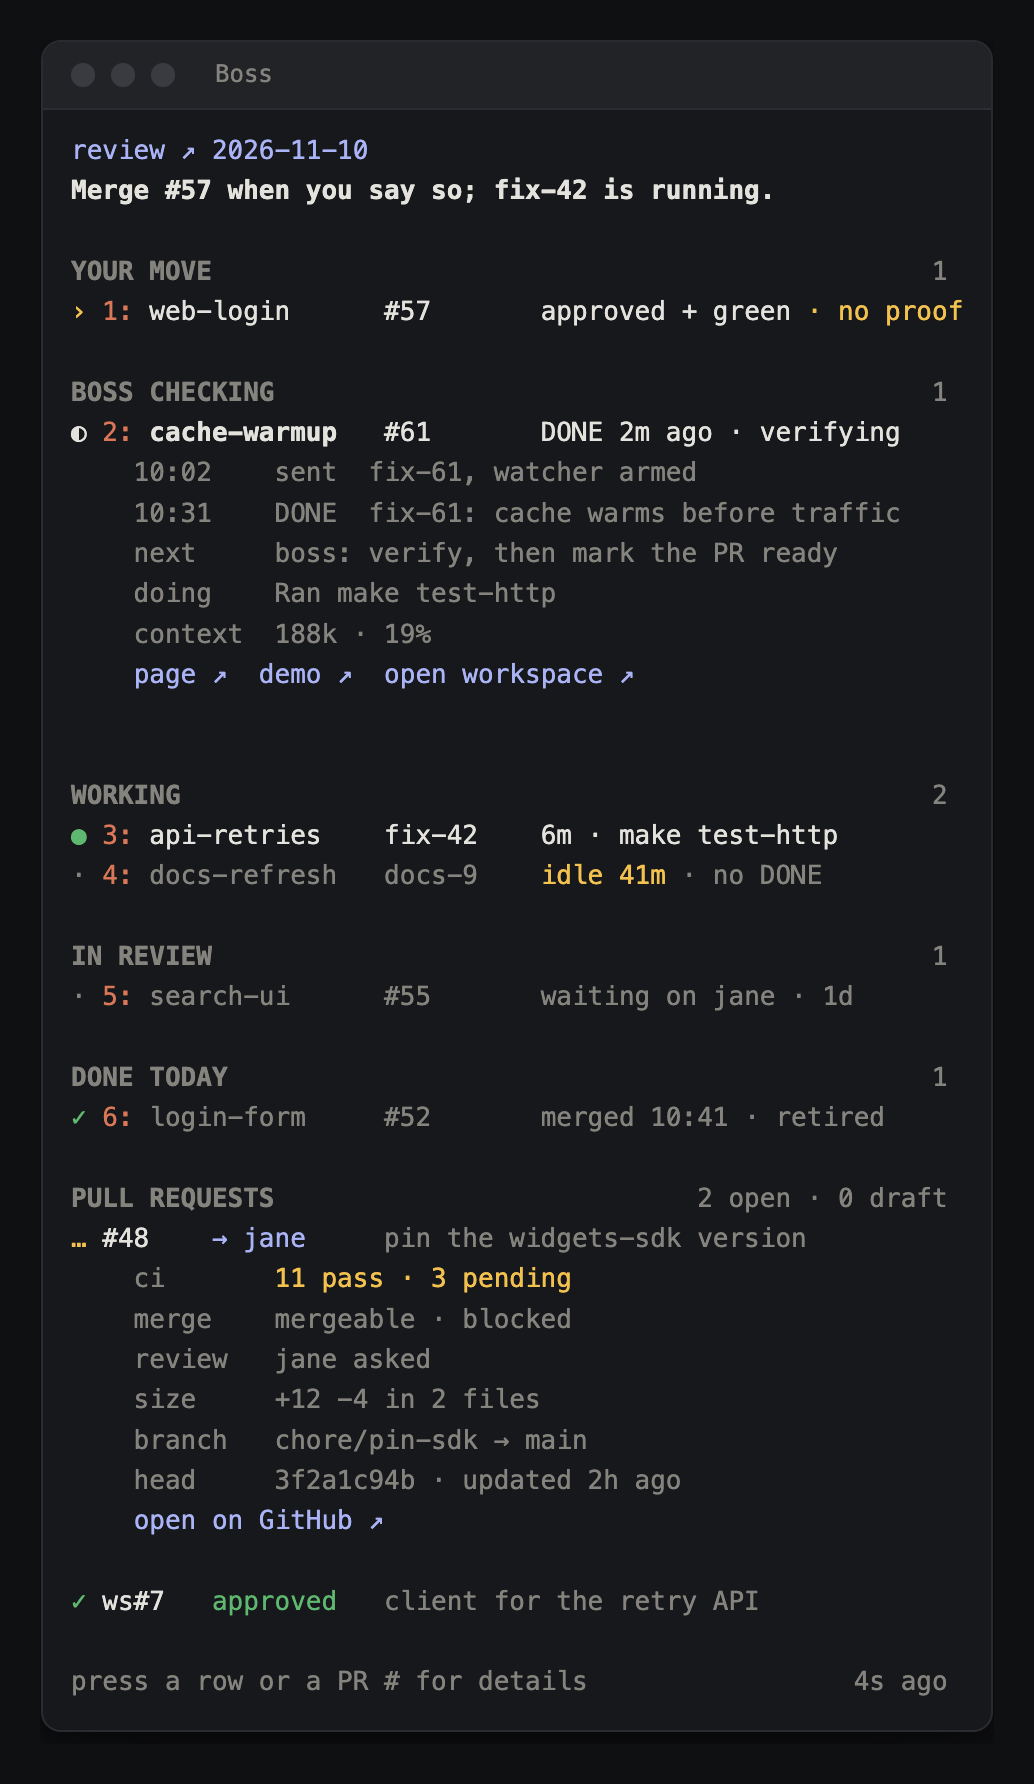
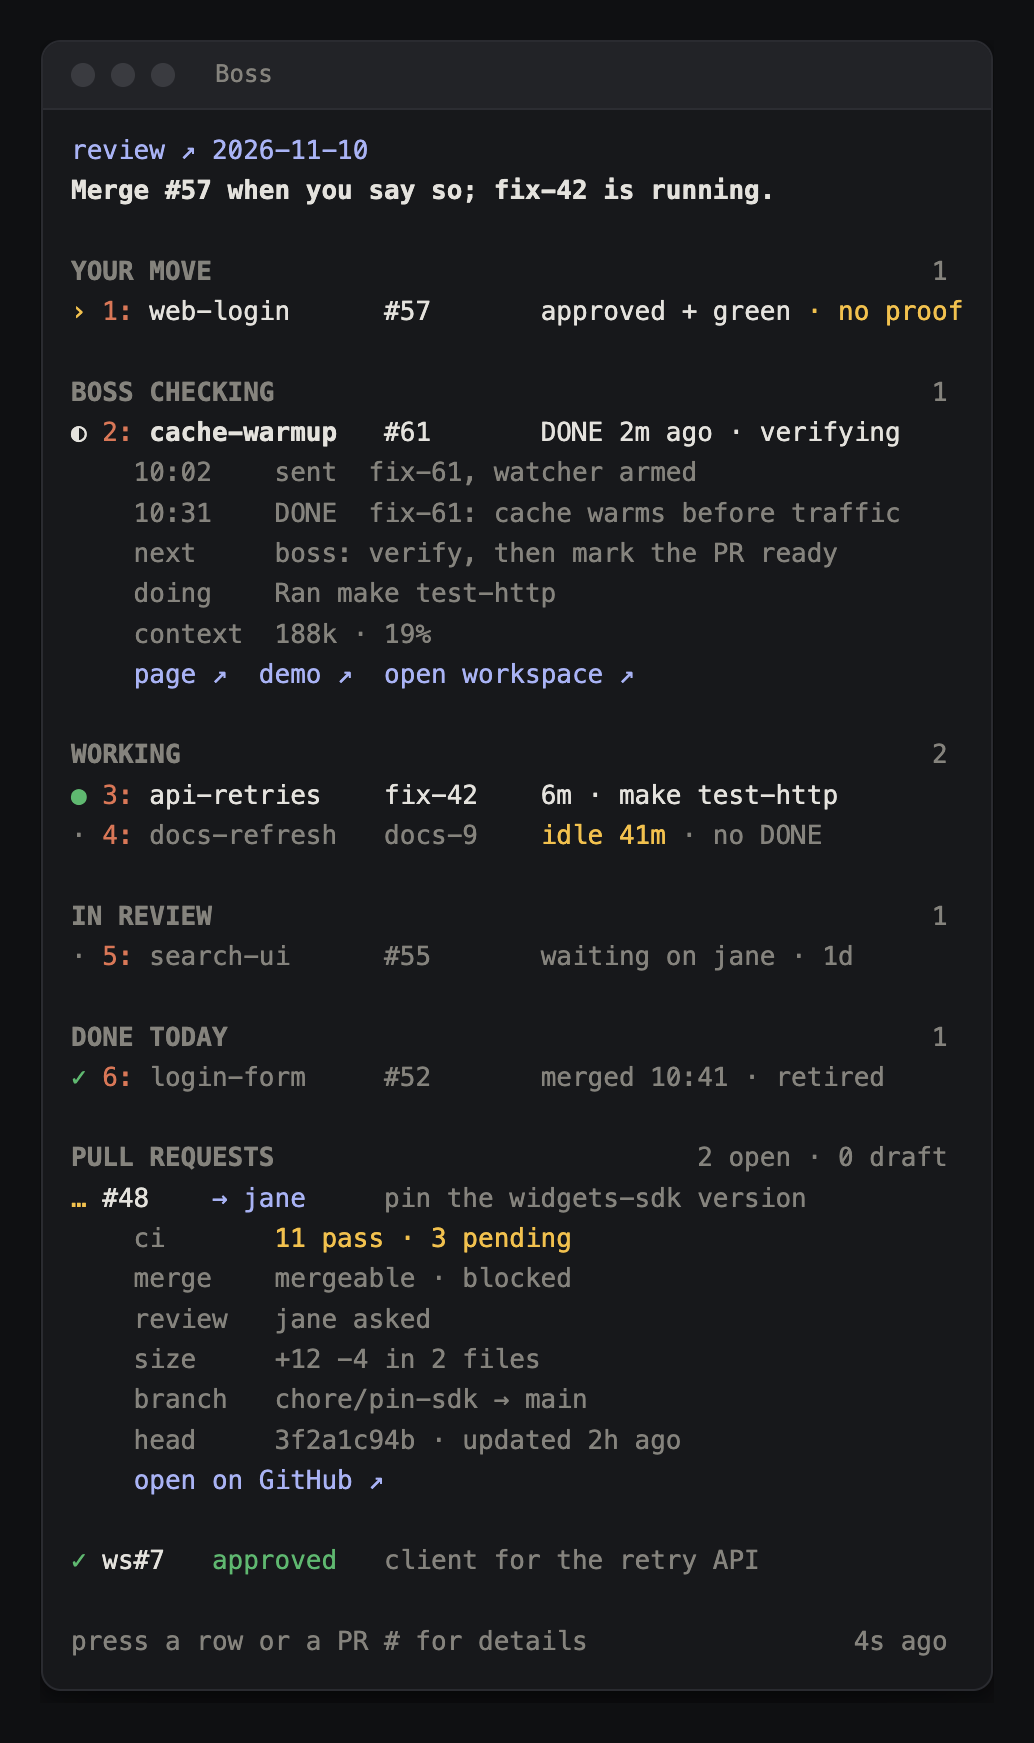
Drop the committed default.profraw and ignore it; one blank line after the expanded row in the peek shot

diff --git a/docs/src/shots.html b/docs/src/shots.html
@@ -150,7 +150,6 @@ const peek =
   detail('doing', 'Ran make test-http') +
   detail('context', '188k · 19%') +
   line(seg('    '), seg('page ↗', 'su'), seg('  '), seg('demo ↗', 'su'), seg('  '), seg('open workspace ↗', 'su')) +
-  '\n' +
   working() + later() +
   prs(true) +
   foot('4s')
